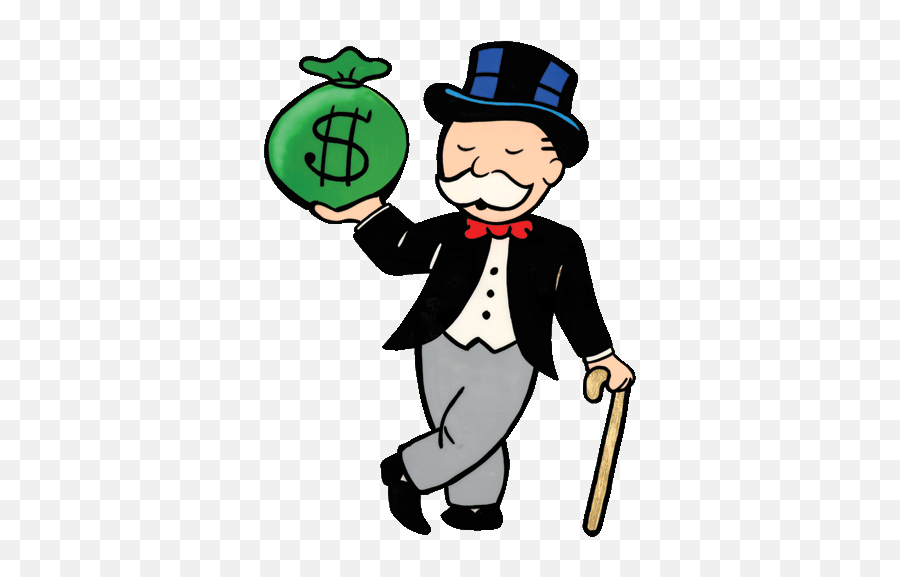
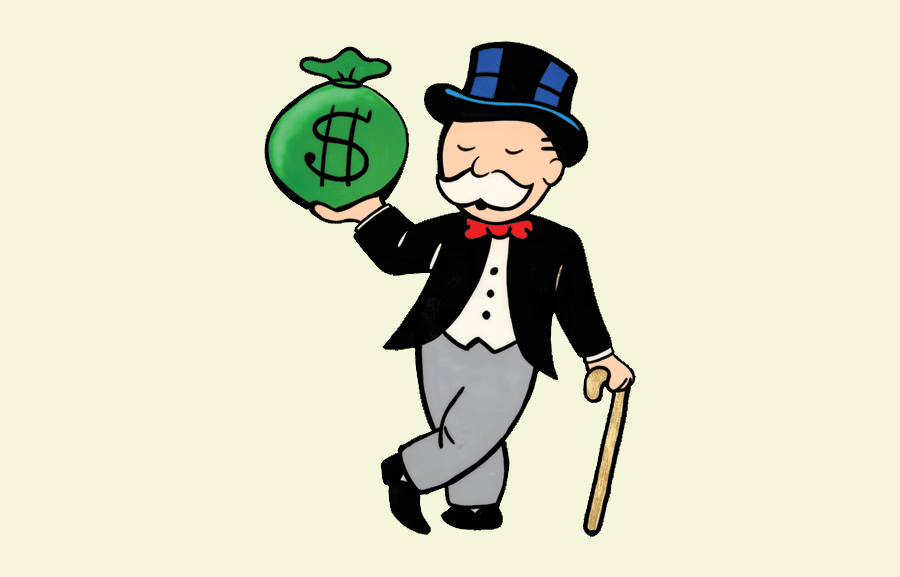
minor changes

diff --git a/zavrsni_frontend/src/components/Edit.js b/zavrsni_frontend/src/components/Edit.js
@@ -1,7 +1,6 @@
 import React from "react";
 import 'bootstrap/dist/css/bootstrap.min.css'
 import { Navigate } from 'react-router-dom'
-import Image from '../images/money.jpg';
 import axios from 'axios'
 import { Alert } from 'react-bootstrap'
 import { URL } from './Constants'
@@ -193,12 +192,6 @@ class Edit extends React.Component {
             return <Navigate to='/teacherProfile' />
         }
 
-        var background = {
-            backgroundImage: `url()`,
-            backgroundPosition: 'center',
-            backgroundSize: 'cover',
-            backgroundRepeat: 'no-repeat'
-        }
         const student = this.state.student
         this.state.studentIdPlaceholder = student.map(student => student.iducenika)
         const studentFirstNamePlaceholder = student.map(student => student.ime)
@@ -214,7 +207,6 @@ class Edit extends React.Component {
         const taskSecondPlaceholder = task.map(task => task.drugiodgovor)
         const taskThirdPlaceholder = task.map(task => task.treciodgovor)
         const taskFourthPlaceholder = task.map(task => task.cetvrtiodgovor)
-        const taskMoneyTypePlaceholder = task.map(task => task.tipnovca)
 
         const exercise = this.state.exercise
         this.state.exerciseIdPlaceholder = exercise.map(exercise => exercise.idgrupe)
@@ -255,14 +247,14 @@ class Edit extends React.Component {
                         <p className="text-center font">ID UČENIKA: {this.state.studentIdPlaceholder} | IME: {studentFirstNamePlaceholder} | PREZIME: {studentLastNamePlaceholder}</p>
                         <form onSubmit={this.handleSubmit} className="w-100 container pozadina">
                             <div className="row justify-content-md-center">
-                                <div className="form-group col-xl-3">
+                                <div className="form-group">
                                     <label>Ime</label>
                                     <input type="text" required name="ime" value={this.state.ime} className="form-control" placeholder={studentFirstNamePlaceholder} onChange={this.handleChange} />
                                 </div>
                             </div>
 
                             <div className="row justify-content-md-center">
-                                <div className="form-group col-xl-3">
+                                <div className="form-group">
                                     <label>Prezime</label>
                                     <input type="text" required name="prezime" value={this.state.prezime} className="form-control" placeholder={studentLastNamePlaceholder} onChange={this.handleChange} />
                                 </div>
@@ -279,8 +271,8 @@ class Edit extends React.Component {
                         <div className="d-flex justify-content-center font">
                             <h3 className="text-center w-25 pozadina">Uredi zadatak</h3>
                         </div>
-                        <p className="text-center font">ID: {this.state.taskIdPlaceholder} | VRSTA: {this.state.taskTypePlaceholder} | PITANJE: {taskQuestionPlaceholder}</p>
-                        <p className="text-center font">TOČAN ODGOVOR: {taskCorrectAnswerPlaceholder} | HINT: {taskHintPlaceholder}</p>
+                        <p className="text-center font mx-1">ID: {this.state.taskIdPlaceholder} | VRSTA: {this.state.taskTypePlaceholder} | PITANJE: {taskQuestionPlaceholder}</p>
+                        <p className="text-center font mx-1">TOČAN ODGOVOR: {taskCorrectAnswerPlaceholder} | HINT: {taskHintPlaceholder}</p>
                         <form onSubmit={this.handleSubmit} className="w-100 container pozadina my-2">
                             {this.state.taskTypePlaceholder == "slikovnoOdabir" &&
                                 <p className="text-center font">
@@ -364,18 +356,18 @@ class Edit extends React.Component {
                         <div className="d-flex justify-content-center font">
                             <h3 className="text-center w-25 pozadina">Uredi vježbu</h3>
                         </div>
-                        <p className="text-center font">ID: {this.state.exerciseIdPlaceholder} | NAZIV: {exerciseNamePlaceholder} | NAMJENA: {exercisePurposePlaceholder}</p>
-                        <p className="text-center font">VALUTA: {exerciseCurrencyPlaceholder} | POKRENI: {exerciseStartPlaceholder} | ZADACI: {exerciseTasksPlaceholder}</p>
+                        <p className="text-center font mx-1">ID: {this.state.exerciseIdPlaceholder} | NAZIV: {exerciseNamePlaceholder} | NAMJENA: {exercisePurposePlaceholder}</p>
+                        <p className="text-center font mx-1">VALUTA: {exerciseCurrencyPlaceholder} | POKRENI: {exerciseStartPlaceholder} | ZADACI: {exerciseTasksPlaceholder}</p>
                         <form onSubmit={this.handleSubmit} className="w-100 container pozadina">
                             <div className="row justify-content-md-center">
-                                <div className="form-group col-xl-4">
+                                <div className="form-group">
                                     <label>Naziv vježbe</label>
                                     <input type="text" required name="naziv" value={this.state.naziv} className="form-control" placeholder={exerciseNamePlaceholder} onChange={this.handleChange} />
                                 </div>
                             </div>
 
                             <div className="row justify-content-md-center">
-                                <div className="form-group col-xl-4">
+                                <div className="form-group">
                                     <label>Namjena</label>
                                     <select required defaultValue={'default'} name="namjena" className="form-select" aria-label="Default select example" onChange={(e) => this.handleChange(e, 'value')}>
                                         {purpose}
@@ -384,7 +376,7 @@ class Edit extends React.Component {
                             </div>
 
                             <div className="row justify-content-md-center">
-                                <div className="form-group col-xl-4">
+                                <div className="form-group">
                                     <label>Valuta u zadacima</label>
                                     <select required defaultValue={'default'} name="valuta" className="form-select" aria-label="Default select example" onChange={(e) => this.handleChange(e, 'value')}>
                                         {currency}
@@ -393,7 +385,7 @@ class Edit extends React.Component {
                             </div>
 
                             <div className="row justify-content-md-center">
-                                <div className="form-group col-xl-4">
+                                <div className="form-group">
                                     <label>Odabrat vježbu za rješavanje? (1-DA, 0-NE)</label>
                                     <select required defaultValue={'default'} name="pokreni" className="form-select" aria-label="Default select example" onChange={(e) => this.handleChange(e, 'value')}>
                                         {choose}
@@ -402,7 +394,7 @@ class Edit extends React.Component {
                             </div>
 
                             <div className="row justify-content-md-center">
-                                <div className="form-group col-xl-4">
+                                <div className="form-group">
                                     <label>Unesite ID zadataka koje želite u vježbi odvojene sa ","</label>
                                     <input type="text" required name="idzadataka" value={this.state.idzadataka} className="form-control" placeholder={exerciseTasksPlaceholder} onChange={this.handleChange} />
                                 </div>

diff --git a/zavrsni_frontend/src/components/AddExercise.js b/zavrsni_frontend/src/components/AddExercise.js
@@ -2,7 +2,6 @@ import React from "react";
 import 'bootstrap/dist/css/bootstrap.min.css'
 import { Navigate } from 'react-router-dom'
 import { Alert } from 'react-bootstrap'
-import Image from '../images/money.jpg';
 import axios from 'axios'
 import { URL } from './Constants'
 axios.defaults.withCredentials = true;
@@ -69,12 +68,6 @@ class AddExercise extends React.Component {
         if (this.state.back)
             return <Navigate to='/teacherProfile' />
 
-        var background = {
-            backgroundImage: `url()`,
-            backgroundPosition: 'center',
-            backgroundSize: '100% ',
-            backgroundRepeat: 'no-repeat'
-        }
         const purpose = []
         purpose.push(<option key={0} value={'ISPIT'}>ISPIT</option>)
         purpose.push(<option key={1} value={'VJEZBA'}>VJEŽBA</option>)
@@ -91,18 +84,18 @@ class AddExercise extends React.Component {
         choose.push(<option disabled key={2} value={'default'}>Odaberi DA ili NE</option>)
 
         return (
-            <div className="d-flex flex-column justify-content-center align-items-center" style={background}>
+            <div className="d-flex flex-column justify-content-center align-items-center">
                 <h3 className="text-center font">Dodaj vježbu</h3>
                 <form onSubmit={this.handleSubmit} className="w-100 container pozadina">
                     <div className="row justify-content-md-center">
-                        <div className="form-group col-xl-4">
+                        <div className="form-group">
                             <label>Naziv vježbe</label>
                             <input type="text" name="naziv" value={this.state.naziv} className="form-control" placeholder="Enter name" onChange={this.handleChange} />
                         </div>
                     </div>
 
                     <div className="row justify-content-md-center">
-                        <div className="form-group col-xl-4">
+                        <div className="form-group">
                             <label>Namjena</label>
                             <select defaultValue={'default'} name="namjena" className="form-select" aria-label="Default select example" onChange={(e) => this.handleChange(e, 'value')}>
                                 {purpose}
@@ -111,7 +104,7 @@ class AddExercise extends React.Component {
                     </div>
 
                     <div className="row justify-content-md-center">
-                        <div className="form-group col-xl-4">
+                        <div className="form-group">
                             <label>Valuta u zadacima</label>
                             <select defaultValue={'default'} name="valuta" className="form-select" aria-label="Default select example" onChange={(e) => this.handleChange(e, 'value')}>
                                 {currency}
@@ -120,7 +113,7 @@ class AddExercise extends React.Component {
                     </div>
 
                     <div className="row justify-content-md-center">
-                        <div className="form-group col-xl-4">
+                        <div className="form-group">
                             <label>Odabrat ovu vježbu za rješavanje?</label>
                             <select defaultValue={'default'} name="pokreni" className="form-select" aria-label="Default select example" onChange={(e) => this.handleChange(e, 'value')}>
                                 {choose}
@@ -129,7 +122,7 @@ class AddExercise extends React.Component {
                     </div>
 
                     <div className="row justify-content-md-center">
-                        <div className="form-group col-xl-4">
+                        <div className="form-group">
                             <label>Unesite ID zadataka koje želite u vježbi odvojene sa ","</label>
                             <input type="text" name="idzadataka" value={this.state.idzadataka} className="form-control" placeholder="1,2,3" onChange={this.handleChange} />
                         </div>

diff --git a/zavrsni_frontend/src/components/AddStudent.js b/zavrsni_frontend/src/components/AddStudent.js
@@ -1,8 +1,7 @@
 import React from "react";
 import 'bootstrap/dist/css/bootstrap.min.css'
 import { Navigate } from 'react-router-dom'
-import Image from '../images/money.jpg';
-import { Table, Alert } from 'react-bootstrap'
+import { Alert } from 'react-bootstrap'
 import axios from 'axios'
 import { URL } from './Constants'
 axios.defaults.withCredentials = true;
@@ -90,13 +89,6 @@ class AddStudent extends React.Component {
         if (this.state.back)
             return <Navigate to='/teacherProfile' />
 
-        var background = {
-            backgroundImage: `url()`,
-            backgroundPosition: 'center',
-            backgroundSize: 'cover',
-            backgroundRepeat: 'no-repeat'
-        }
-
         const razredi = this.state.razredi
         const classesList = razredi.map((razred, i) => {
             return (
@@ -107,25 +99,25 @@ class AddStudent extends React.Component {
         classesList.push(<option disabled key={-1} value={"default"}>Odaberi razred</option>)
 
         return (
-            <div className="d-flex flex-column justify-content-center align-items-center" style={background}>
+            <div className="d-flex flex-column justify-content-center align-items-center">
                 <h3 className="text-center font">Dodaj učenika</h3>
                 <form onSubmit={this.handleSubmit} className="w-100 container pozadina">
                     <div className="row justify-content-md-center">
-                        <div className="form-group col-xl-3">
+                        <div className="form-group">
                             <label>Ime</label>
                             <input type="text" name="ime" value={this.state.ime} className="form-control" placeholder="Enter name" onChange={this.handleChange} required />
                         </div>
                     </div>
 
                     <div className="row justify-content-md-center">
-                        <div className="form-group col-xl-3">
+                        <div className="form-group">
                             <label>Prezime</label>
                             <input type="text" name="prezime" value={this.state.prezime} className="form-control" placeholder="Enter surname" onChange={this.handleChange} required />
                         </div>
                     </div>
 
                     <div className="row justify-content-md-center">
-                        <div className="form-group col-xl-3">
+                        <div className="form-group">
                             <label>Razred</label>
                             <select  defaultValue={'default'} name="idRazreda" className="form-select" aria-label="Default select example" onChange={(e) => this.handleChange(e, 'value')}>
                                 {classesList}

diff --git a/zavrsni_frontend/src/components/LoginTeacher.js b/zavrsni_frontend/src/components/LoginTeacher.js
@@ -1,7 +1,6 @@
 import React from "react";
 import 'bootstrap/dist/css/bootstrap.min.css'
 import '../styles/login.css'
-import Image from '../images/money.jpg';
 import { Navigate } from 'react-router-dom'
 import { Alert } from 'react-bootstrap'
 import axios from 'axios'
@@ -79,26 +78,20 @@ class LoginTeacher extends React.Component {
                 return <Navigate to='/' />
             }
         }
-
-        var background = {
-            backgroundImage: `url()`,
-            backgroundPosition: 'center',
-            backgroundSize: '100% ',
-            backgroundRepeat: 'no-repeat'
-        }
+        
         return (
-            <div className=" d-flex flex-column justify-content-center align-items-center" style={background}>
+            <div className=" d-flex flex-column justify-content-center align-items-center">
                 <h3 className="font">Prijava</h3>
                 <form onSubmit={this.handleSubmit} className="w-100 container font pozadina">
                     <div className="row justify-content-md-center">
-                        <div className="form-group col-xl-3">
+                        <div className="form-group">
                             <label>Korisničko ime</label>
                             <input type="text" name="username" value={this.state.username} className="form-control w-100" placeholder="Enter username" onChange={this.handleChange} />
                         </div>
                     </div>
 
                     <div className="row justify-content-md-center">
-                        <div className="form-group col-xl-3">
+                        <div className="form-group">
                             <label>Lozinka</label>
                             <input type="password" name="lozinka" value={this.state.lozinka} className="form-control" placeholder="Enter password" onChange={this.handleChange} />
                         </div>

diff --git a/zavrsni_frontend/src/components/AddTask.js b/zavrsni_frontend/src/components/AddTask.js
@@ -3,7 +3,6 @@ import 'bootstrap/dist/css/bootstrap.min.css'
 import '../styles/login.css'
 import { Navigate } from 'react-router-dom'
 import { Alert } from 'react-bootstrap'
-import Image from '../images/money.jpg';
 import axios from 'axios'
 import { URL } from './Constants'
 axios.defaults.withCredentials = true;
@@ -90,13 +89,6 @@ class AddTask extends React.Component {
         if (this.state.back)
             return <Navigate to='/teacherProfile' />
 
-        var background = {
-            backgroundImage: `url()`,
-            backgroundPosition: 'center',
-            backgroundSize: 'cover',
-            backgroundRepeat: 'no-repeat'
-        }
-
         const typeOfMoney = []
         typeOfMoney.push(<option key={0} value={'NOVCANICA'}>NOVČANICA</option>)
         typeOfMoney.push(<option key={1} value={'KOVANICA'}>KOVANICA</option>)
@@ -104,11 +96,11 @@ class AddTask extends React.Component {
         typeOfMoney.push(<option disabled key={3} value={'default'}>Odaberi tip novca</option>)
 
         return (
-            <div className="d-flex flex-column justify-content-center align-items-center" style={background}>
+            <div className="d-flex flex-column justify-content-center align-items-center">
                 <h3 className="font text-center">Dodaj zadatak</h3>
                 <form onSubmit={this.handleSubmit} className="w-100 container pozadina">
                     <div className="row justify-content-center">
-                        <div className="form-group col-lg-3">
+                        <div className="form-group col-sm-3">
                             <label>ID zadatka:</label>
                             <input type="text" name="id" value={this.state.id} className="form-control" placeholder="Enter task ID" onChange={this.handleChange} required />
                         </div>

diff --git a/zavrsni_frontend/src/components/Welcome.js b/zavrsni_frontend/src/components/Welcome.js
@@ -1,9 +1,8 @@
 import React from 'react'
 import image from '../images/monopoly.png'
 import '../styles/index.css'
-import { Button } from 'react-bootstrap'
 import 'bootstrap/dist/css/bootstrap.min.css'
-import { Navigate, Redirect, Link } from 'react-router-dom'
+import { Navigate, Link } from 'react-router-dom'
 import { URL } from './Constants'
 import axios from 'axios'
 axios.defaults.withCredentials = true;
@@ -82,12 +81,19 @@ class Welcome extends React.Component {
                 return <Navigate to='/' />
             }
         }
-        //<img className='mt-5 w-50 h-25 slika' src={image}></img>
+        var imageRender = {
+            imageRendering: `-webkit-optimize-contrast`,
+            maxWidth: `100%`,
+            maxHeight: `100%`
+        }
         return (
             <div className='d-flex flex-column align-items-center'>
                 <h1 className='container text-center py-2 naslov'>DOBRODOŠLI NA VJEŽBALICU!</h1>
                 <div className='w-25 container text-center font pozadina'>Za početak vježbe pritisni START</div>
-                <div className='container mt-5 w-50 d-flex flex-column justify-content-center align-items-center font pozadina'>
+                <div className='my-2 w-50 h-25 d-flex justify-content-center'>
+                    <img alt='monopoly guy' style={imageRender} src={image}></img>
+                </div>
+                <div className='container mt-2 w-50 d-flex flex-column justify-content-center align-items-center font pozadina'>
                     <div className='mt-2'>
                         <Link to="/loginStudent" className="btn btn-primary btn-lg">START</Link>
                     </div>

diff --git a/zavrsni_frontend/src/components/MultipleChoiceTask.js b/zavrsni_frontend/src/components/MultipleChoiceTask.js
@@ -1,7 +1,6 @@
 import React from "react";
 import 'bootstrap/dist/css/bootstrap.min.css'
-import Image from '../images/money.jpg';
-import { Alert, Button } from 'react-bootstrap'
+import { Alert } from 'react-bootstrap'
 import axios from 'axios'
 import { URL } from './Constants'
 axios.defaults.withCredentials = true;
@@ -60,7 +59,7 @@ class MultipleChoiceTask extends React.Component {
     handleChange(event){
         const { name, value } = event.target
         this.setState({
-            [name]: value,
+            [name]: value
         })
     }
 

diff --git a/zavrsni_frontend/src/components/ExerciseStatistic.js b/zavrsni_frontend/src/components/ExerciseStatistic.js
@@ -1,8 +1,6 @@
 import React from "react";
 import 'bootstrap/dist/css/bootstrap.min.css'
-import { Navigate } from 'react-router-dom'
-import { Table, Button, Container } from 'react-bootstrap'
-import Image from '../images/money.jpg';
+import { Table, Container } from 'react-bootstrap'
 import axios from 'axios'
 import { URL } from './Constants'
 axios.defaults.withCredentials = true;

diff --git a/zavrsni_frontend/src/components/Statistics.js b/zavrsni_frontend/src/components/Statistics.js
@@ -2,7 +2,6 @@ import React from "react";
 import 'bootstrap/dist/css/bootstrap.min.css'
 import { Navigate } from 'react-router-dom'
 import { Table, Button, Container, Alert } from 'react-bootstrap'
-import Image from '../images/money.jpg';
 import axios from 'axios'
 import { URL } from './Constants'
 axios.defaults.withCredentials = true;

diff --git a/zavrsni_frontend/src/components/Exercise.js b/zavrsni_frontend/src/components/Exercise.js
@@ -1,6 +1,5 @@
 import React from "react";
 import 'bootstrap/dist/css/bootstrap.min.css'
-import Image from '../images/money.jpg';
 import { Navigate } from 'react-router-dom'
 import Countdown from 'react-countdown';
 import axios from 'axios'

diff --git a/zavrsni_frontend/src/components/InputTask.js b/zavrsni_frontend/src/components/InputTask.js
@@ -1,6 +1,5 @@
 import React from "react";
 import 'bootstrap/dist/css/bootstrap.min.css'
-import Image from '../images/money.jpg';
 import { Alert } from 'react-bootstrap'
 import axios from 'axios'
 import { URL } from './Constants'

diff --git a/zavrsni_frontend/src/components/PictureChoiceTask.js b/zavrsni_frontend/src/components/PictureChoiceTask.js
@@ -1,6 +1,5 @@
 import React from "react";
 import 'bootstrap/dist/css/bootstrap.min.css'
-import Image from '../images/money.jpg';
 import { Alert } from 'react-bootstrap'
 import axios from 'axios'
 import { URL } from './Constants'
